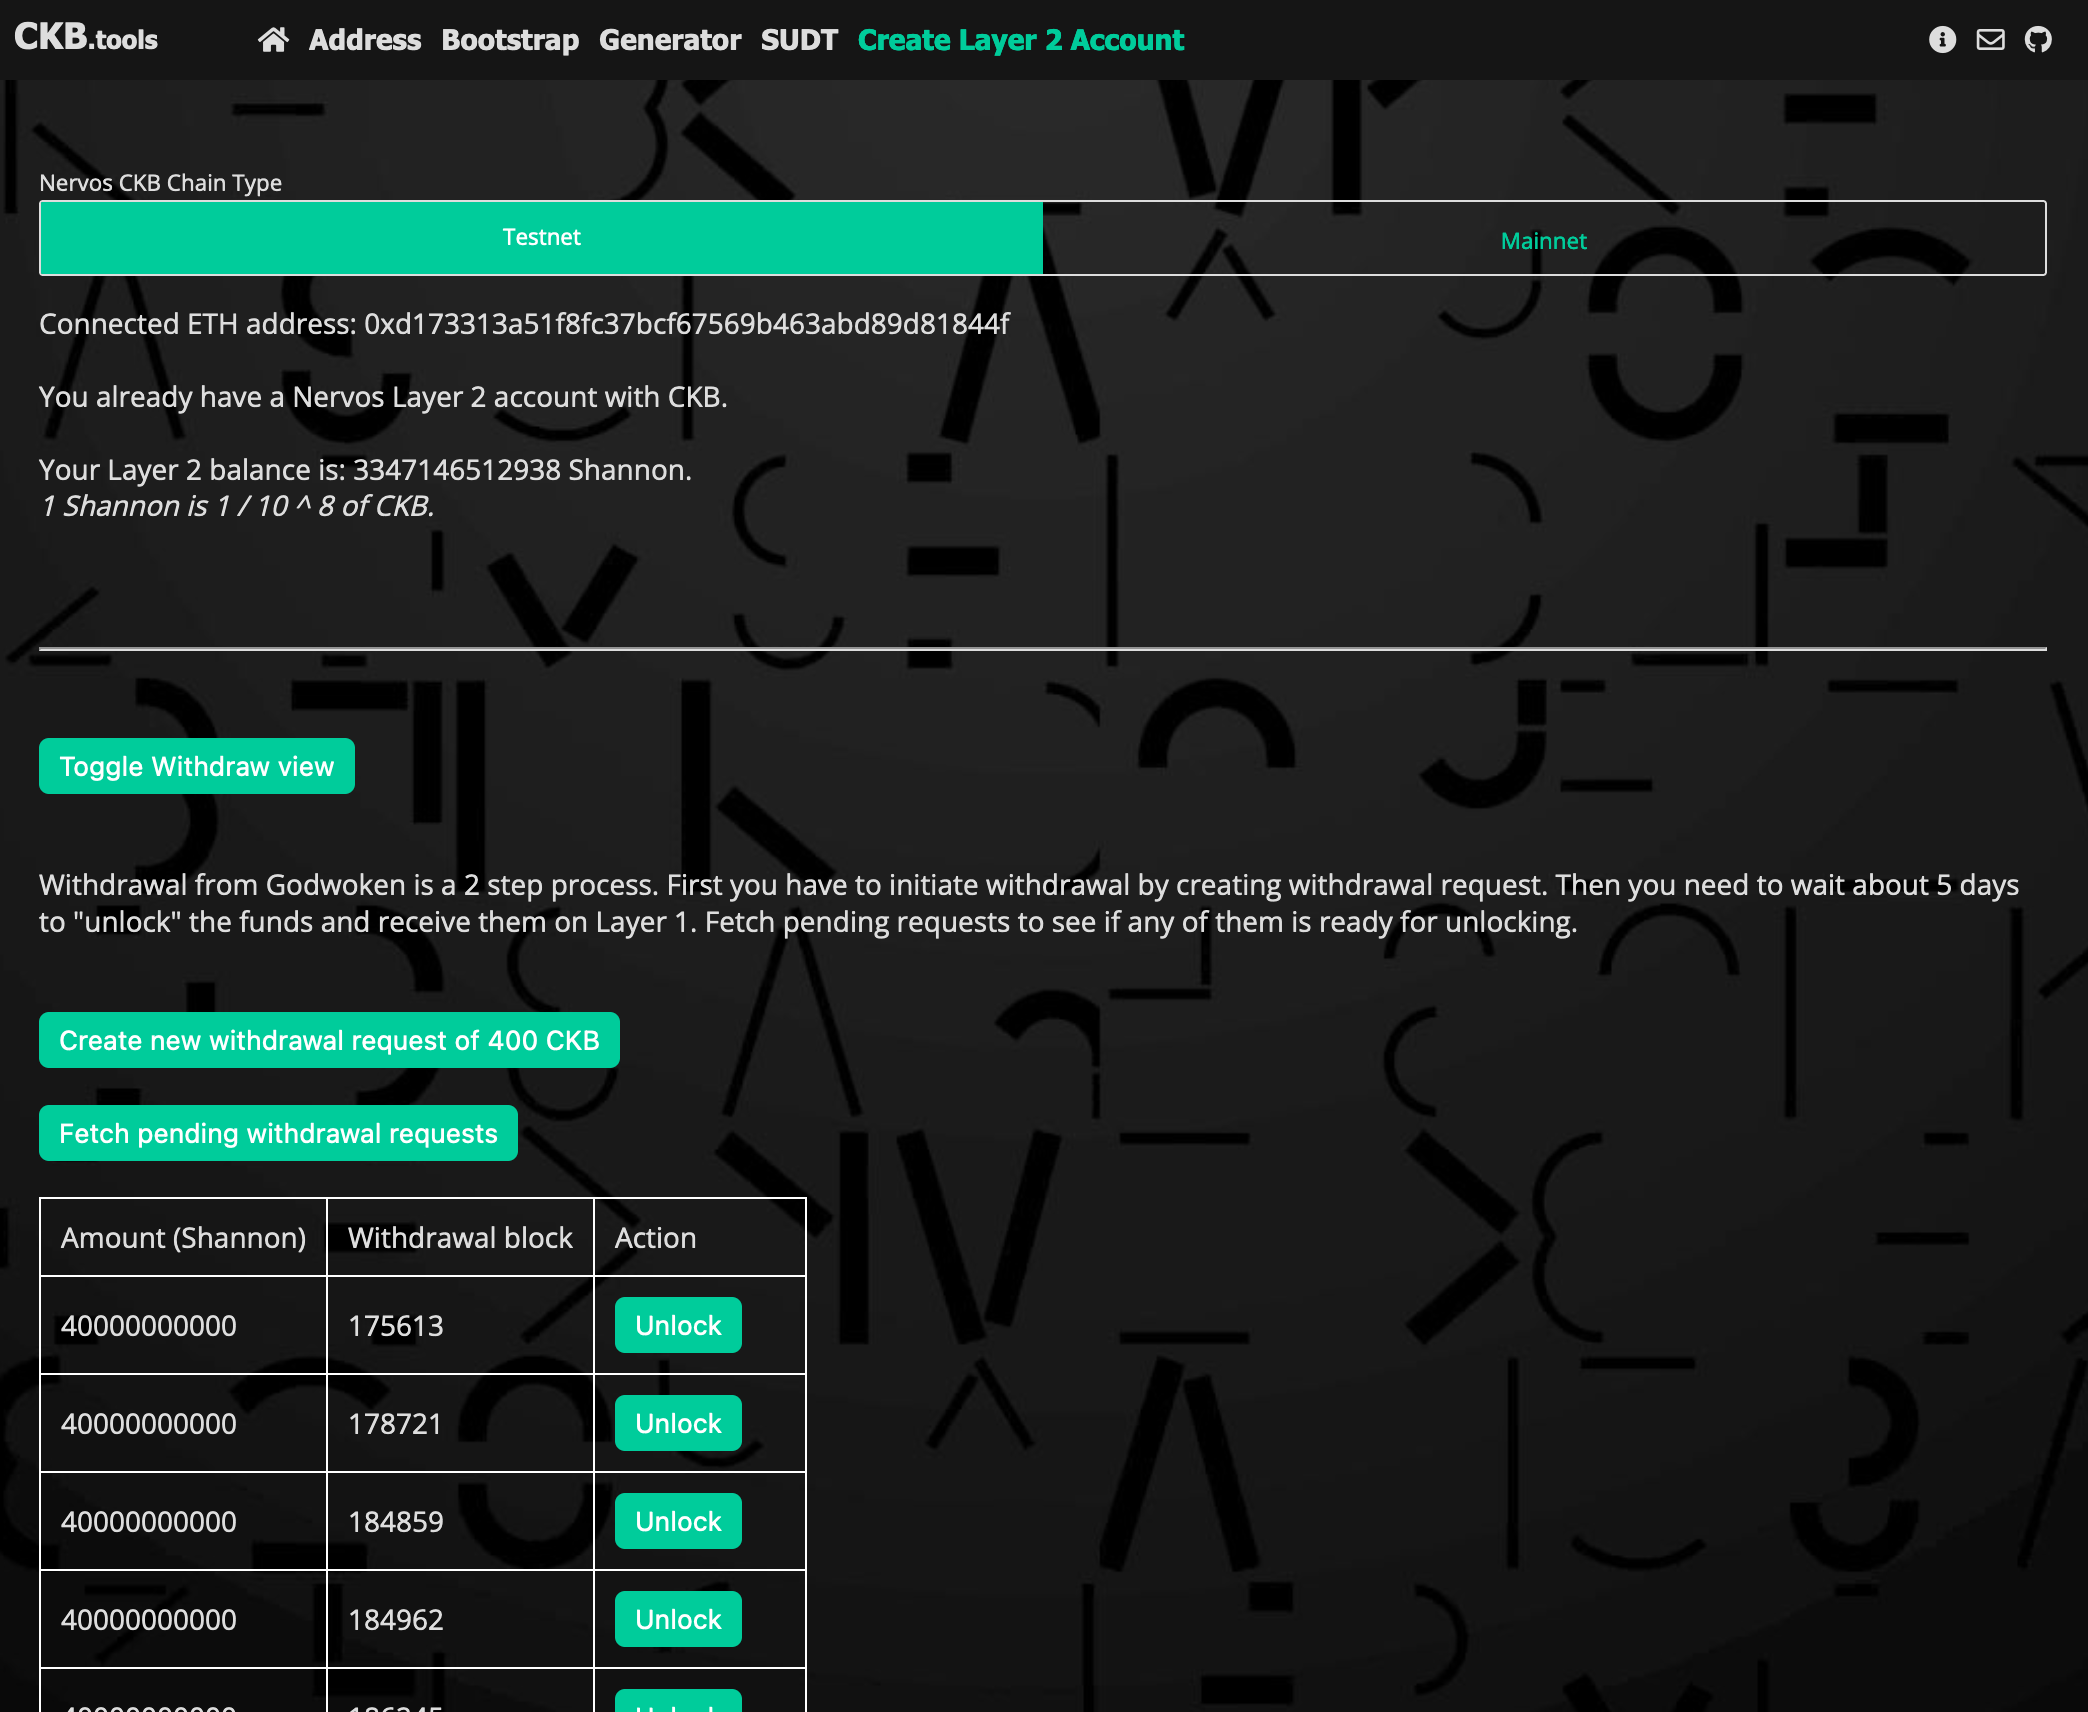
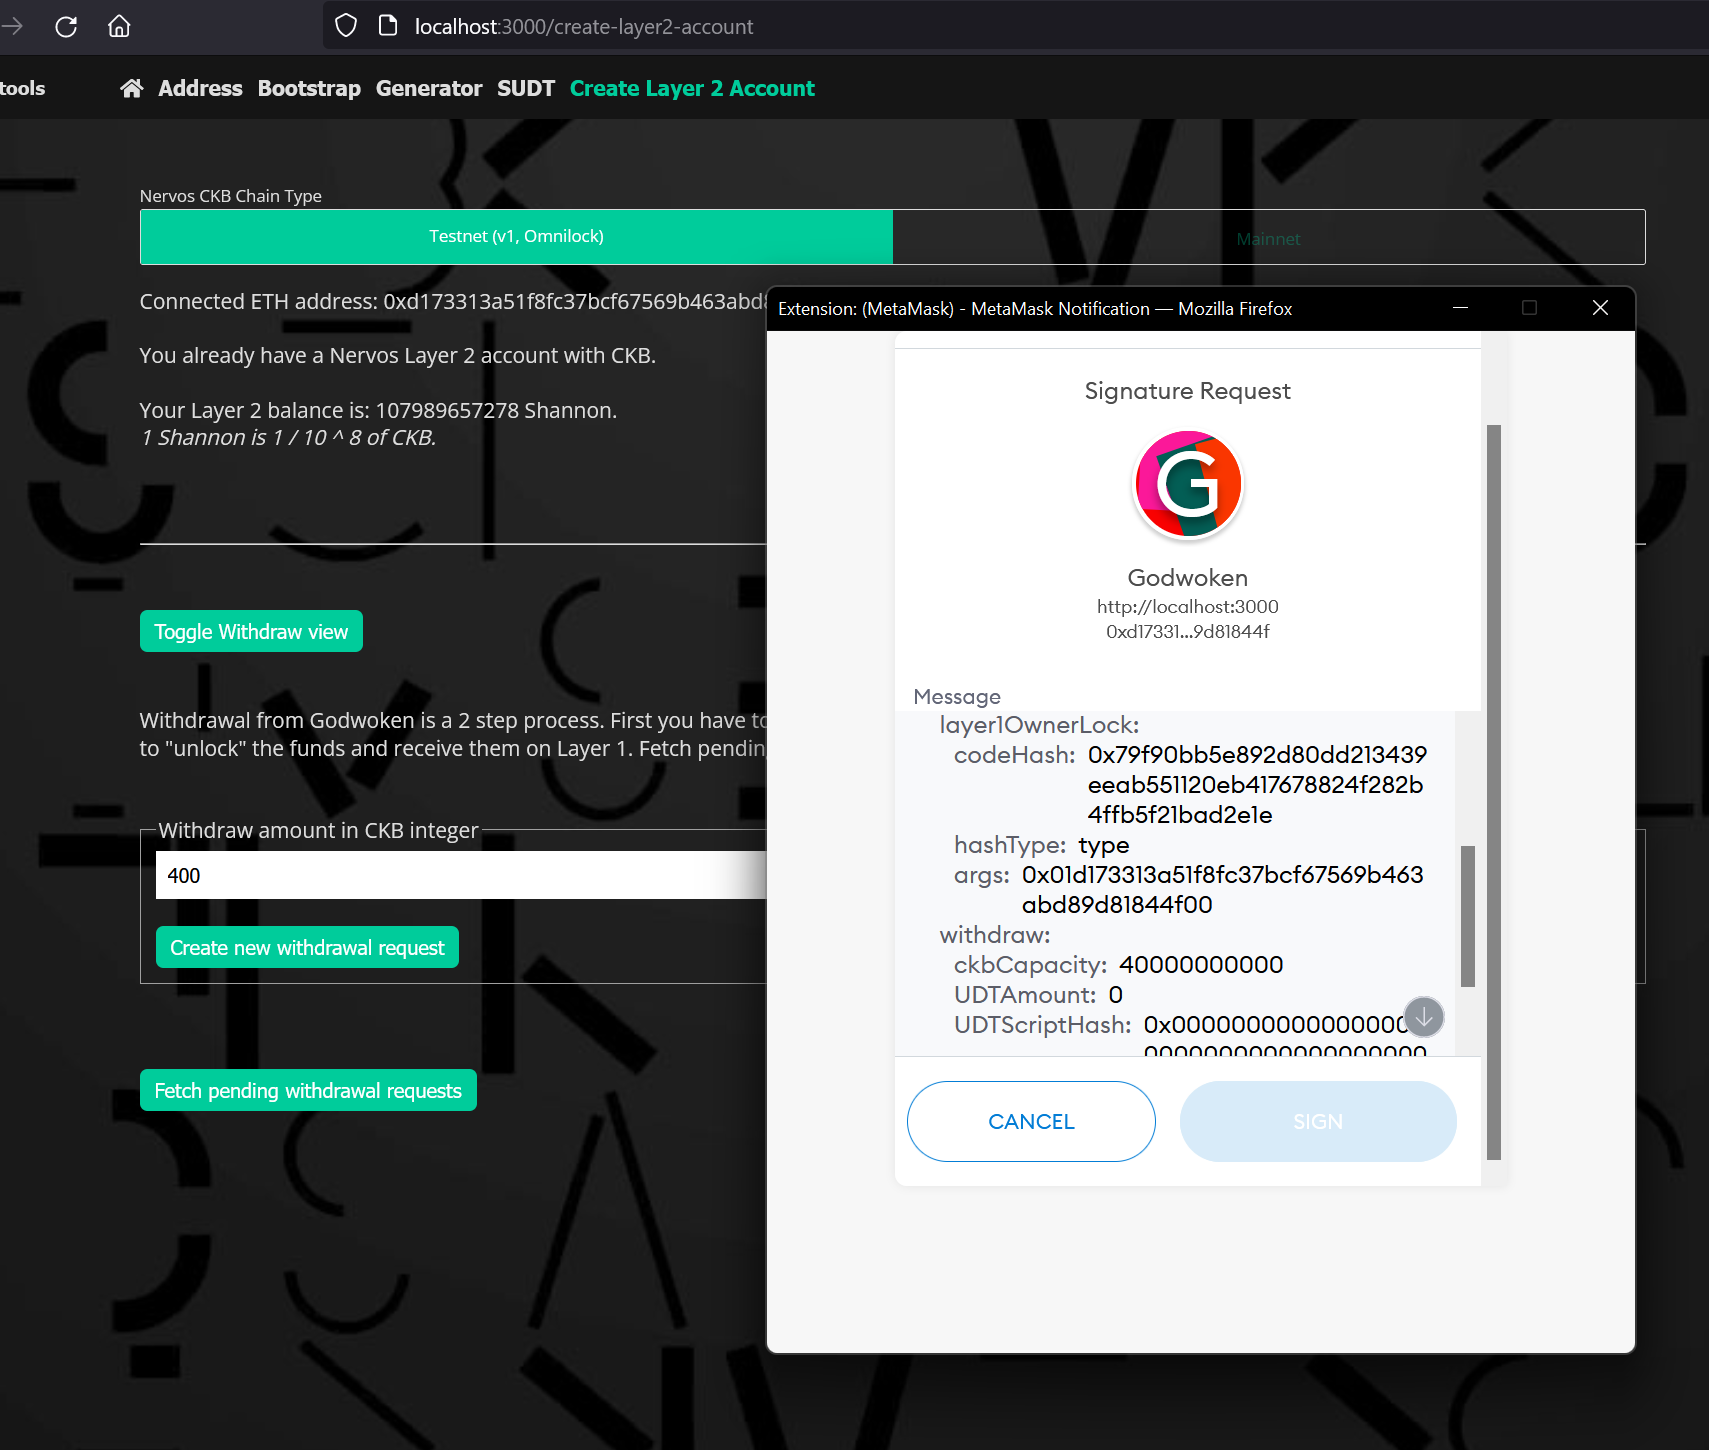
GitBook: [#48] No subject

diff --git a/tasks/9.withdraw.md b/tasks/9.withdraw.md
@@ -1,7 +1,5 @@
 # 9. Initiate a Withdrawal From Layer 2 Back to Layer 1
 
-**Caution: This tutorial hasn't been updated for new version of Godwoken network (v1). The information in this guide might be out of date.**
-
 Withdrawing an asset from [Layer 2](../concept-explainers/structure.md#layer-1-layer-2) back to [Layer 1](../concept-explainers/structure.md#layer-1--layer-2) is another step in the roundtrip process of interoperability. [Godwoken](../concept-explainers/frameworks.md#godwoken) is a Layer 2 that is a natural extension of Layer 1, so it has deep integration which allows it to function seamlessly using a built-in withdrawal mechanism.
 
 Deposits from Layer 1 to Layer 2 are quick. This is because Layer 1 has stronger security than Layer 2. When a deposit is made to Layer 2, it can reliably trust Layer 1 after waiting for only a few confirmations. However, a withdrawal is the opposite. When a withdrawal is made to Layer 1, it must rely on Layer 2, which inherently has lower security. For this reason, the number of confirmations required is much higher in order to guarantee that the security remains reliable. It takes approximately five days from the start of the withdrawal process to the point where funds are actually released on Layer 1.
@@ -22,17 +20,15 @@ Start by visiting [dev.ckb.tools/create-layer2-account](https://dev.ckb.tools/cr
 
 ![Create Layer 2 Account tab](<../.gitbook/assets/image (5) (1).png>)
 
-### 2. Submit withdrawal request&#x20;
+### 2. Submit withdrawal request
 
-Click "Toggle Withdraw view" and then "Create new withdrawal request of 400 CKB".
+Click "Toggle Withdraw view" and then "Create new withdrawal request".
 
 ![](<../.gitbook/assets/image (1) (1).png>)
 
 You will see a MetaMask popup:
 
-![](<../.gitbook/assets/image (3) (1).png>)
-
-_Due to Godwoken not supporting personal\_sign yet for creating withdrawal request raw signing (eth\_sign) is used and that's why MetaMask is showing you red warning text._
+![](<../.gitbook/assets/image (4).png>)
 
 Click "Sign" to send withdrawal request.
 
@@ -40,6 +36,6 @@ If you see _"Success! Withdrawal request sent."_ message at the end it means you
 
 You can browse existing withdrawal requests after clicking "Fetch pending withdrawal requests". It might take some time before your new withdrawal request is visible there. It has to be processed by the Layer 1 indexer.
 
-![](<../.gitbook/assets/image (4).png>)
+![](<../.gitbook/assets/image (4) (1).png>)
 
 Withdrawing from Nervos Layer 2 is a two step process, first the withdrawal is initiated and then it is later unlocked after the five day challenge period. Unlocking funds is part of the next task.

diff --git a/tasks/10.unlock.md b/tasks/10.unlock.md
@@ -1,7 +1,5 @@
 # 10. Complete Withdrawal Process by Unlocking the Funds
 
-**Caution: This tutorial hasn't been updated for new version of Godwoken network (v1). The information in this guide might be out of date.**
-
 A withdrawal in Godwoken is a two step process. The first part is initializing the withdraw, and second is unlocking the funds. After the withdrawal is initiated, a five day challenge period begins. This is a period where Layer 2 network operators have time to check and raise issues with any potentially malicious transactions and rollback if necessary.
 
 In the [previous task](9.withdraw.md), you initiated the withdrawal. In this task you will complete the process by issuing the `unlock` command.
